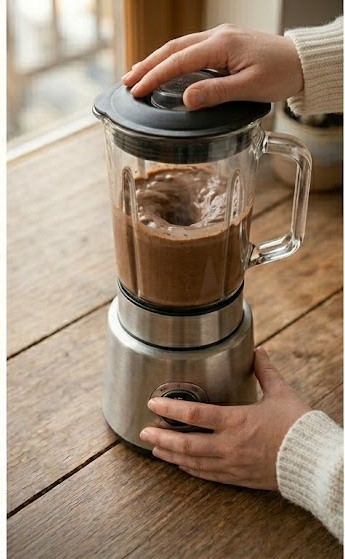
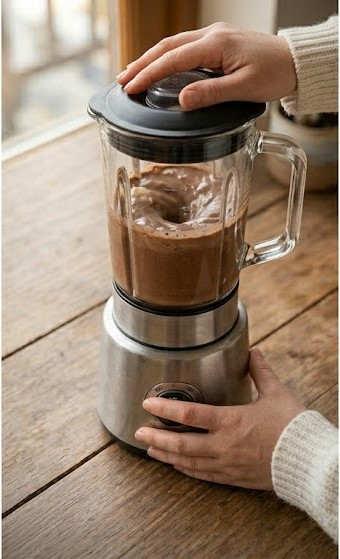
cambio de zigzag, ajuste de imagenes y tamaños de tarjetas

diff --git a/tutoriales.html b/tutoriales.html
@@ -171,8 +171,8 @@
   </ul>
 </div>
                 
-<section class="seccion-tutorial-zigzag">
-  <div class="contenedor-zigzag">
+<section class="seccion-tutorial-pasos">
+  <div class="contenedor-pasos">
 
     <!-- PASO 1 -->
     <div class="tarjeta-paso paso-1">
@@ -230,8 +230,8 @@
   </ul>
 </div>
                             
-                <section class="seccion-tutorial-zigzag">
-  <div class="contenedor-zigzag">
+                <section class="seccion-tutorial-pasos">
+  <div class="contenedor-pasos">
 
     <!-- PASO 1 -->
     <div class="tarjeta-paso paso-1">
@@ -287,8 +287,8 @@
   </ul>
 </div>
                             
-                <section class="seccion-tutorial-zigzag">
-  <div class="contenedor-zigzag">
+                <section class="seccion-tutorial-pasos">
+  <div class="contenedor-pasos">
 
     <!-- PASO 1 -->
     <div class="tarjeta-paso paso-1">

diff --git a/css/styles.css b/css/styles.css
@@ -627,20 +627,21 @@ a:active {
 /* SECCIÓN TUTORIAL - ESTILO GRILLA (2 POR FILA, COMPACTA)     */
 /* ============================================================ */
 
-.seccion-tutorial-zigzag {
+.seccion-tutorial-pasos {
     width: 100%;
     padding: 60px 5%;
     background-color: var(--color-claro);
 }
 
 /* Contenedor que agrupa las tarjetas */
-.contenedor-zigzag {
+.contenedor-pasos {
     max-width: 1100px; 
     margin: 0 auto;
     display: flex;
     flex-wrap: wrap;
     gap: 30px; /* Espacio equilibrado entre las dos columnas */
     justify-content: center;
+    
 }
 
 /* Cada tarjeta ocupa el 50% del ancho del contenedor */
@@ -652,6 +653,7 @@ a:active {
     box-shadow: var(--sombra);
     border-radius: 8px;
     overflow: hidden;
+     
 }
 
 /* Contenedor de la imagen sin altura fija para que NO corte las fotos */
@@ -665,6 +667,7 @@ a:active {
     width: 100%;
     height: auto; /* Muestra la foto completa sin recortar nada */
     display: block;
+    
 }
 
 /* Contenedor del texto con sus espaciados sintonizados */
@@ -673,6 +676,7 @@ a:active {
     display: flex;
     flex-direction: column;
     gap: 10px;
+    
 }
 
 .tarjeta-paso__contenido h3 {